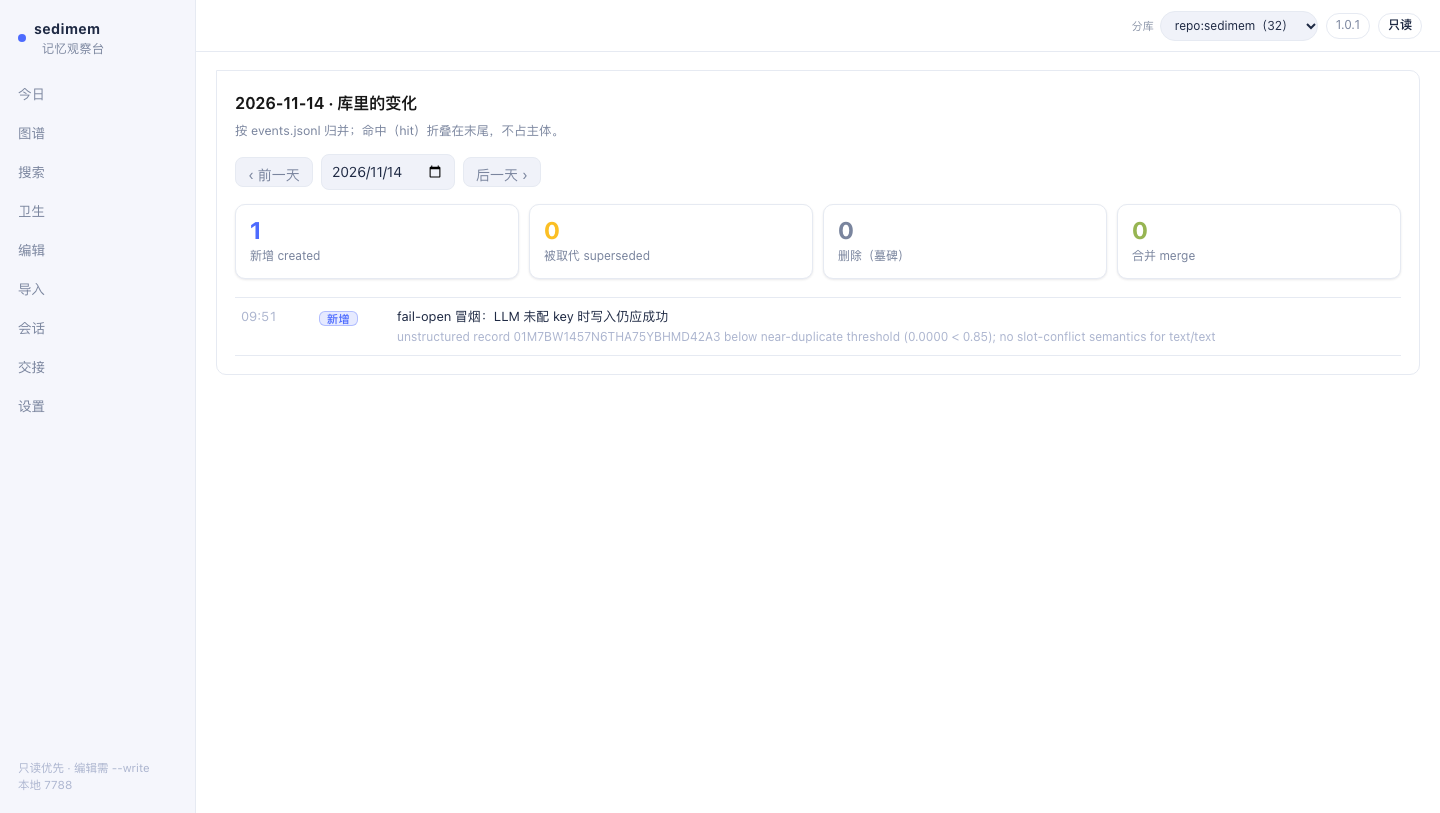
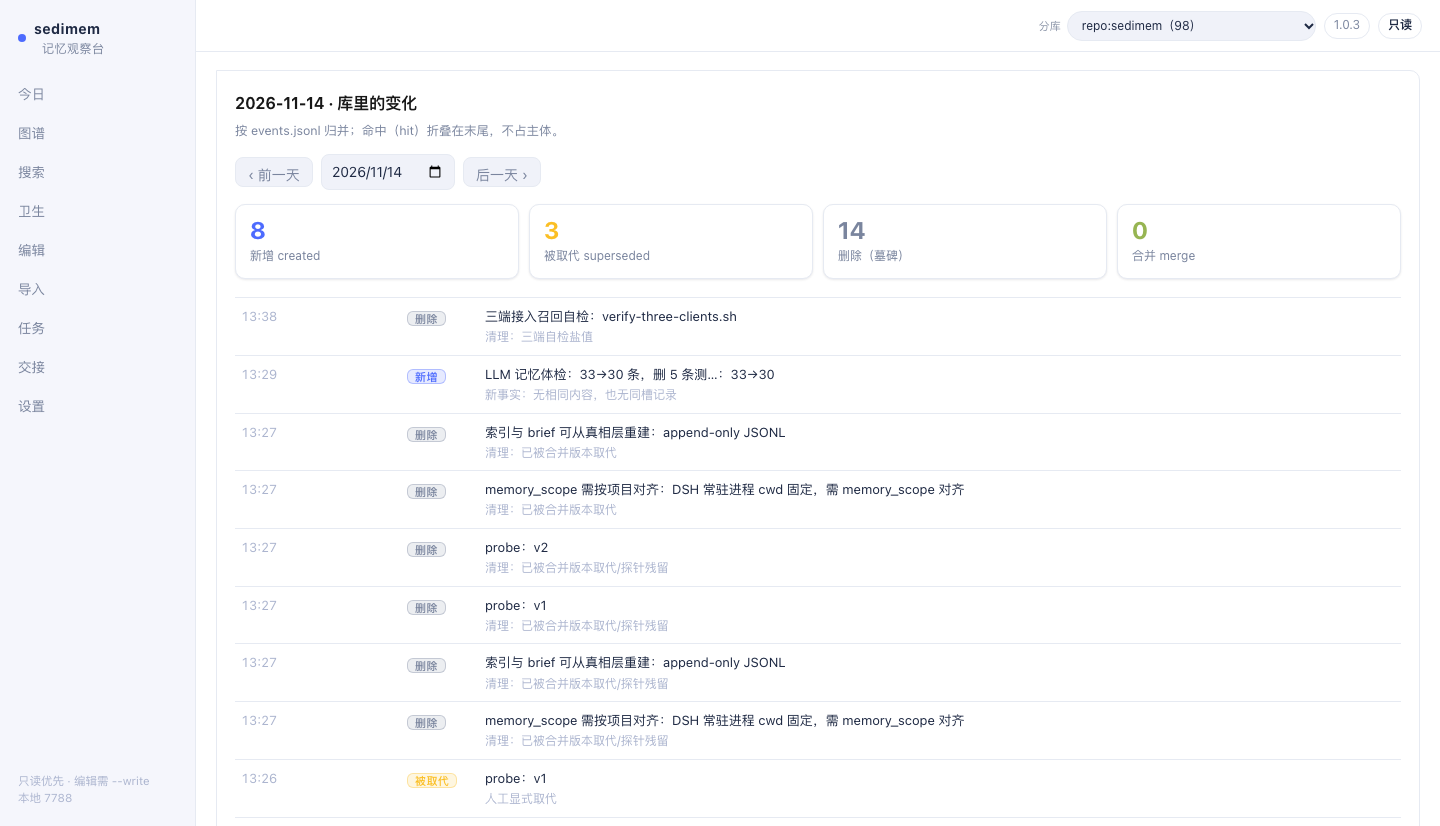
refactor(naming): 会话临时库 → 任务库（对外叫任务，技术标识仍 session:）
- UI：左栏「任务」、页标题「任务记忆」、说明「一个任务可跨多个 agent 接力」、空态文案同步
- 文档：docs/06 §17 改「任务库（session: scope）」并解释为什么按任务而不是会话
- README 中英、项目站中英、v0.6 时间线文案同步；截图重拍
- 文案：小红书/Twitter 改任务库口径（Twitter 4/6 明说 keyed by task, not by chat session）
- 技术标识不变：session: scope / memo session / memory_session_* / from-session 标签

diff --git a/versions/v1.0/ui/session-view.js b/versions/v1.0/ui/session-view.js
@@ -1,16 +1,16 @@
 /**
- * session-view.js —— 会话页（W8）：浏览 session:* 临时分库（只读）。
+ * session-view.js —— 任务页（W8）：浏览 session:* 任务库（只读）。
  *
  * 数据来源（全部复用现有只读接口，不改后端）：
- * - 会话列表：GET api/scopes 里 scope 以 `session:` 开头的分库（records 计数直接用列表返回值）
- * - 会话详情：GET api/records?scope=<session 库>&status=active，按 kind 分组展示
+ * - 任务列表：GET api/scopes 里 scope 以 `session:` 开头的分库（records 计数直接用列表返回值）
+ * - 任务详情：GET api/records?scope=<session 库>&status=active，按 kind 分组展示
  *
  * 安全约定：只读、无写操作；所有接口数据一律 textContent / createElement 写入，
  * 禁用 HTML 字符串拼接与 eval。state 记录的 8 段 checkpoint 用 <pre> 渲染。
  */
 import { el } from './dom.js';
 
-/** checkpoint 的 8 段固定顺序（与会话临时库契约一致）。 */
+/** checkpoint 的 8 段固定顺序（与任务库契约一致）。 */
 const CHECKPOINT_SECTIONS = [
   'intent', 'concepts', 'files', 'errorsAndFixes',
   'pendingJobs', 'currentState', 'nextSteps', 'criticalContext',
@@ -58,7 +58,7 @@ export function formatCheckpoint(record) {
 }
 
 /**
- * 一条会话分库 → 列表行数据（scope + 记录数）。
+ * 一条任务分库 → 列表行数据（scope + 记录数）。
  * @param {string} scope
  * @param {{records?: number}} [stats] —— /api/scopes 的单条分库对象
  * @returns {{scope: string, records: number, label: string}}
@@ -68,15 +68,15 @@ export function buildSessionRow(scope, stats) {
   return { scope: String(scope ?? ''), records, label: `${scope} · ${records} 条记录` };
 }
 
-/** 顶部只读说明（会话库可丢弃，关闭走 CLI，UI 不提供按钮）。 */
+/** 顶部只读说明（任务库可丢弃，关闭走 CLI，UI 不提供按钮）。 */
 function renderNote(container) {
   const note = el('p', 'dim');
-  note.textContent = '会话库是临时记忆（可丢弃）。关闭会话请用 CLI：`memo session close <id>`（UI 只读，不提供按钮）';
+  note.textContent = '一个任务可跨多个 agent 接力；关闭任务用 CLI：`memo session close <id>`（UI 只读，不提供按钮）';
   container.append(note);
 }
 
 /**
- * 挂载会话页（app.js 懒加载后调用；apiGet 由 app.js 注入，自动带当前 scope）。
+ * 挂载任务页（app.js 懒加载后调用；apiGet 由 app.js 注入，自动带当前 scope）。
  * @param {{container: Element, apiGet: Function}} deps
  * @returns {Promise<void>}
  */
@@ -95,7 +95,7 @@ export async function mountSessionView({ container, apiGet }) {
   const sessions = (Array.isArray(data?.scopes) ? data.scopes : [])
     .filter((s) => typeof s?.scope === 'string' && s.scope.startsWith('session:'));
   if (sessions.length === 0) {
-    container.append(el('p', 'dim', '当前没有会话临时库（session:*）。'));
+    container.append(el('p', 'dim', '当前没有任务库（session:*）。'));
     return;
   }
 
@@ -103,7 +103,7 @@ export async function mountSessionView({ container, apiGet }) {
   const layout = el('div', 'session-layout');
   const listBox = el('div', 'card session-list');
   const detail = el('div', 'card session-detail');
-  detail.append(el('p', 'dim', '点击左侧会话查看其中的记录。'));
+  detail.append(el('p', 'dim', '点击左侧任务查看其中的记录。'));
   layout.append(listBox, detail);
   container.append(layout);
 
@@ -117,7 +117,7 @@ export async function mountSessionView({ container, apiGet }) {
   }
 }
 
-/** 拉取一个会话库的 active 记录并按 kind 分组渲染进 detail。 */
+/** 拉取一个任务库的 active 记录并按 kind 分组渲染进 detail。 */
 async function showSession(detail, apiGet, scope) {
   detail.replaceChildren(el('h3', 'h3', scope), el('p', 'dim', '加载中…'));
   let data;
@@ -132,7 +132,7 @@ async function showSession(detail, apiGet, scope) {
   const grouped = groupByKind(data?.records);
   const kinds = Object.keys(grouped);
   if (kinds.length === 0) {
-    detail.append(el('p', 'dim', '该会话库没有 active 记录。'));
+    detail.append(el('p', 'dim', '该任务库没有 active 记录。'));
     return;
   }
   for (const kind of kinds) {

diff --git a/docs/index.html b/docs/index.html
@@ -170,11 +170,11 @@ footer a:hover{text-decoration:underline}
   </figure>
 </section>
 
-<!-- 会话临时库 -->
+<!-- 任务库 -->
 <section>
-  <h2>会话临时库</h2>
+  <h2>任务库</h2>
   <figure>
-    <img src="shots/diagrams/session.png" alt="会话临时库生命周期"
+    <img src="shots/diagrams/session.png" alt="任务库生命周期"
          width="3200" height="1120" loading="lazy"
          style="aspect-ratio:3200/1120">
     <figcaption>session:* 禁写 fact；close 只晋升 decision / gotcha，附六段交接 md。</figcaption>
@@ -214,7 +214,7 @@ footer a:hover{text-decoration:underline}
       <figcaption>卫生页：待裁决簇 + 趋势。</figcaption>
     </figure>
   </div>
-  <p style="margin-top:12px">九页：今日 / 图谱 / 搜索 / 卫生 / 编辑 / 导入 / 会话 / 交接 / 设置。启动：<code class="inline">memo serve --port 7788</code>，加 <code class="inline">--write</code> 才可编辑。</p>
+  <p style="margin-top:12px">九页：今日 / 图谱 / 搜索 / 卫生 / 编辑 / 导入 / 任务 / 交接 / 设置。启动：<code class="inline">memo serve --port 7788</code>，加 <code class="inline">--write</code> 才可编辑。</p>
 </section>
 
 <!-- 三端接入 -->
@@ -253,7 +253,7 @@ claude mcp add --scope user memo -e MEMO_HOME=$HOME/.memo -- \
   <li><b>v0.3</b> 分层视图 + 注入分级</li>
   <li><b>v0.4</b> 语义道 + 入库脱敏</li>
   <li><b>v0.5</b> DSH 插件化 + pages-verify</li>
-  <li><b>v0.6</b> 会话临时库 + 批量导入</li>
+  <li><b>v0.6</b> 任务库 + 批量导入</li>
   <li><b>v1.0</b> 12 模块重构 + 记忆中心</li>
   <li><b>v1.0.1</b> 图谱可用性 + 配色对齐</li>
   <li><b>v1.0.2</b> 思考链 / 重建 / 懒加载修复</li>

diff --git a/docs/en/index.html b/docs/en/index.html
@@ -170,14 +170,14 @@ footer a:hover{text-decoration:underline}
   </figure>
 </section>
 
-<!-- Session store -->
+<!-- Task store -->
 <section>
-  <h2>Session Store</h2>
+  <h2>Task Store</h2>
   <figure>
-    <img src="../shots/diagrams/session.png" alt="Session scratch store lifecycle"
+    <img src="../shots/diagrams/session.png" alt="Task store lifecycle"
          width="3200" height="1120" loading="lazy"
          style="aspect-ratio:3200/1120">
-    <figcaption>session:* forbids facts; close promotes only decision / gotcha, plus a six-section handoff markdown.</figcaption>
+    <figcaption>Keyed by task, not by chat session — multiple agents can hand off one task. <code class="inline">session:*</code> forbids facts; close promotes only decision / gotcha, plus a handoff markdown.</figcaption>
   </figure>
   <div class="chips">
     <span class="chip hl">memo session start</span>
@@ -214,7 +214,7 @@ footer a:hover{text-decoration:underline}
       <figcaption>Hygiene: pending curation clusters + trends.</figcaption>
     </figure>
   </div>
-  <p style="margin-top:12px">Nine pages: Today / Graph / Search / Hygiene / Edit / Import / Session / Handoff / Settings. Start with <code class="inline">memo serve --port 7788</code>; add <code class="inline">--write</code> to enable editing.</p>
+  <p style="margin-top:12px">Nine pages: Today / Graph / Search / Hygiene / Edit / Import / Task / Handoff / Settings. Start with <code class="inline">memo serve --port 7788</code>; add <code class="inline">--write</code> to enable editing.</p>
 </section>
 
 <!-- Three clients -->

diff --git a/versions/v1.0/ui/index.html b/versions/v1.0/ui/index.html
@@ -19,7 +19,7 @@
     <button id="tab-hygiene" data-route="hygiene">卫生</button>
     <button id="tab-edit" data-route="edit">编辑</button>
     <button id="tab-import" data-route="import">导入</button>
-    <button id="tab-session" data-route="session">会话</button>
+    <button id="tab-session" data-route="session">任务</button>
     <button id="tab-handoff" data-route="handoff">交接</button>
     <button id="tab-settings" data-route="settings">设置</button>
   </nav>
@@ -115,10 +115,10 @@
     <div id="settings-container"></div>
   </section>
 
-  <!-- ============ 会话（W8，内容委托 session-view.js，只读） ============ -->
+  <!-- ============ 任务（W8，内容委托 session-view.js，只读） ============ -->
   <section id="session">
-    <h2>会话记忆</h2>
-    <div class="sub">session:* 临时分库的只读浏览；关闭会话走 CLI，本页不提供写操作。</div>
+    <h2>任务记忆</h2>
+    <div class="sub">任务库（session:* 分库）的只读浏览：一个任务可跨多个 agent 接力，关闭走 CLI，本页不提供写操作。</div>
     <div id="session-container"></div>
   </section>
 

diff --git a/versions/v1.0/ui/handoff-view.js b/versions/v1.0/ui/handoff-view.js
@@ -30,7 +30,7 @@ function baseName(path) {
 }
 
 /**
- * 一条指针记录 → 列表行数据（时间 / 会话 id / 路径）。
+ * 一条指针记录 → 列表行数据（时间 / 任务 id / 路径）。
  * @param {object} record
  * @returns {{ts: string, sessionId: string, path: string, label: string}}
  */
@@ -38,7 +38,7 @@ export function buildHandoffRow(record) {
   const ts = String(record?.createdAt ?? record?.ts ?? '');
   const sessionId = String(record?.source?.session ?? record?.session ?? '');
   const path = pickHandoffPath(record);
-  return { ts, sessionId, path, label: `${ts || '–'} · ${sessionId || '未知会话'} · ${path}` };
+  return { ts, sessionId, path, label: `${ts || '–'} · ${sessionId || '未知任务'} · ${path}` };
 }
 
 /** 顶部只读说明。 */
@@ -110,7 +110,7 @@ async function showHandoff(detail, apiGet, row) {
   }
   if (row.sessionId) {
     const meta = el('div', 'm', '');
-    meta.textContent = `会话：${row.sessionId}`;
+    meta.textContent = `任务：${row.sessionId}`;
     detail.append(meta);
   }
   const pre = el('pre', 'handoff-content');

diff --git a/versions/v1.0/tests/unit/session-view.test.js b/versions/v1.0/tests/unit/session-view.test.js
@@ -28,7 +28,7 @@ test('groupByKind：非数组 / 缺 kind 防御式处理', () => {
 });
 
 const CHECKPOINT = {
-  intent: '做会话页',
+  intent: '做任务页',
   concepts: ['session', 'handoff'],
   files: ['ui/session-view.js'],
   errorsAndFixes: [],
@@ -48,7 +48,7 @@ test('formatCheckpoint：8 段按固定顺序渲染成纯文本', () => {
     assert.ok(i > last, `段 ${head} 应存在且有序`);
     last = i;
   }
-  assert.ok(text.includes('做会话页'));
+  assert.ok(text.includes('做任务页'));
   assert.ok(text.includes('session\nhandoff'), '数组段逐行展示');
   // 空数组段只留标题，不出现占位内容
   assert.ok(!text.includes('[]'));

diff --git a/versions/v1.0/ui/app.js b/versions/v1.0/ui/app.js
@@ -479,7 +479,7 @@ async function loadImport() {
   importMounted = { scope };
 }
 
-/* W8：会话 / 交接页统一懒加载（只读，无需记忆挂载状态） */
+/* W8：任务 / 交接页统一懒加载（只读，无需记忆挂载状态） */
 /* ---------------- 路由 ---------------- */
 
 const ROUTES = ['today', 'graph', 'search', 'hygiene', 'edit', 'import', 'settings', 'session', 'handoff'];

diff --git a/versions/v1.0/tests/unit/handoff-view.test.js b/versions/v1.0/tests/unit/handoff-view.test.js
@@ -18,7 +18,7 @@ test('pickHandoffPath：predicate=handoff 时取 value，否则空串', () => {
   assert.equal(pickHandoffPath('string'), '');
 });
 
-test('buildHandoffRow：时间 / 会话 id / 路径三字段', () => {
+test('buildHandoffRow：时间 / 任务 id / 路径三字段', () => {
   const row = buildHandoffRow({
     createdAt: '2026-11-14T04:00:00Z',
     source: { session: 'session:abc' },

diff --git a/versions/v1.0/ui/lazy.js b/versions/v1.0/ui/lazy.js
@@ -1,4 +1,4 @@
-// ui/lazy.js —— 「会话 / 交接 / 设置」三页的懒加载器
+// ui/lazy.js —— 「任务 / 交接 / 设置」三页的懒加载器
 //
 // 单独成文件是为了让 app.js 守在 600 行 Q9 硬线内（拆模块而不是放宽阈值）。
 // 每页导出的是 mountXxxView（不是统一的 mount），设置页的参数名是 api 而非 apiGet ——

diff --git a/docs/marketing/posts/xiaohongshu-2026-11-14.md b/docs/marketing/posts/xiaohongshu-2026-11-14.md
@@ -17,9 +17,9 @@
 
 AI 会忘记你，它不会。🧠
 
-每次重开 AI 编码助手都得重新教：项目在哪、构建怎么跑、上次那个坑为什么不能踩。CLAUDE.md 越写越长，最后全被挤到注意力末尾。
+每次重开 AI 编码助手都得重新教：项目在哪、构建怎么跑、上次那个坑为什么不能踩。CLAUDE.md 越写越长，最后全被挤到末尾。
 
-所以我做了个本地记忆库 **sedimem**（沉积岩那个沉积）。这周补上最后两块：**LLM 总结层**和**会话临时库**。
+所以我做了个本地记忆库 **sedimem**。这周补上最后两块：**LLM 总结层**和**任务库**。
 
 ---
 
@@ -29,32 +29,32 @@ AI 会忘记你，它不会。🧠
 以前标题是 `subject/predicate` 拼的（"strata · index" 这种），现在模型写人话。关了 LLM 一切照常，只少层摘要。
 
 🗂 **记忆中心九页（浏览器里看，只读）**
-今日变化 / 3D 图谱 / 搜索 / 卫生 / 编辑 / 导入 / 会话 / 交接 / 设置。图谱点节点看原文，卫生页盯重复和过期。
+今日变化 / 3D 图谱 / 搜索 / 卫生 / 编辑 / 导入 / 任务 / 交接 / 设置。图谱点节点看原文，卫生页盯重复与过期。
 
 🧹 **记忆体检：33 条揪出 5 条垃圾**
-LLM 标出测试残留和同义重复，逐条核对后才删/合并 → 33 变 30，冗余率归零。
+LLM 标出测试残留和同义重复，我逐条核对后才删/合并 → 33 变 30。
 
-🧠 **会话临时库：一次任务用的一次性记忆**
-过程性内容（下一步做什么、刚踩了什么坑）不该进长期库。开工 start → 中途 checkpoint（固定 8 段，也能接 DSH 压缩摘要）→ 收工 close。**只有 decision 和 gotcha 晋升回主库**（带标签可溯源），其余丢弃并自动写交接文档。过程留痕、主库不脏。
+🧠 **任务库：按「任务」分，不按「会话」分**
+过程性内容（下一步做什么、刚踩了什么坑）不该进长期库，但也不该按会话切——多 agent 联合开发时一个任务会被好几个 agent 接力，按会话切就把上下文切碎了。所以按任务开库：start → checkpoint（固定 8 段，也能接 DSH 压缩摘要）→ close。**只有 decision 和 gotcha 晋升回主库**（带标签可溯源），其余丢弃 + 自动写交接文档。
 
 🔌 **一个 MCP server，三端共用**
-DSH / Codex CLI / Claude Code 读同一份 JSONL，换工具不用重新喂。
+DSH / Codex CLI / Claude Code 读同一份 JSONL，换工具不用重喂。
 
 ---
 
 **和常见方案不一样的地方**
 
 · 真相层是 append-only JSONL：只追加、永不原地改，任意时点可回溯
-· 索引 / 图谱 / 摘要都是派生层：删光能一键重建
-· 零运行时依赖，数据只在 `~/.memo/`，不联网也能用
+· 索引 / 图谱 / 摘要都是派生层，删光能重建
+· 零运行时依赖，数据只在 `~/.memo/`，可离线
 
 ---
 
-**想请大家帮我用一下** 🙏
+**求大家帮我用一下** 🙏
 
-一个人自测盲区太多。你也在用 DSH / Codex / Claude Code 的话，装上跑几天，告诉我哪里看不懂、哪个操作反直觉、遇到什么 bug。提 issue 就行，我基本当天修——**这周两个 bug 都是真实使用撞出来的**，自己测根本发现不了。
+一个人自测盲区太多。你也在用 DSH / Codex / Claude Code 的话，装上跑几天，告诉我哪里看不懂、哪个操作反直觉、遇到什么 bug。提 issue 就行，我基本当天修——**这周两个 bug 都是真实用出来的**，自己测根本发现不了。
 
-GitHub 搜 **sedimem**（Old-Friends-Gathering/sedimem），MIT 🌱
+GitHub 搜 **sedimem**，MIT 🌱
 
 #AI工具 #本地优先 #开源项目 #效率工具 #程序员 #ClaudeCode #Codex #MCP #知识管理
 

diff --git a/README.en.md b/README.en.md
@@ -83,24 +83,24 @@ $NODE $V/src/cli/memo.js serve --port 7788   # Memory Hub at http://127.0.0.1:77
 | Brief | Current-scope overview | `memo brief` |
 | Hygiene | Dedupe scan, conflict adjudication, supersede, tombstone delete | `memo dedupe` / `curate` / `supersede` / `forget` |
 | LLM derived | Bypass generation of title/summary/tags, off by default | `memo derive` / `llm` |
-| Session scratch | Exploratory work goes to a scratch store first; close promotes via whitelist | `memo session` |
+| Task store | Per-task scratch memory; close promotes via whitelist | `memo session` |
 | Memory Hub | Nine-page Web UI, read-only by default | `memo serve --port 7788` |
 | Doctor | Environment / store / index health checks | `memo doctor` / `stats` |
 | Migrate & rebuild | Version-dir migration, full index rebuild | `memo migrate` / `reindex` / `compact` |
 
 ## Memory Hub
 
-`memo serve --port 7788`, nine pages: Today / Graph / Search / Hygiene / Edit / Import / Session / Handoffs / Settings.
+`memo serve --port 7788`, nine pages: Today / Graph / Search / Hygiene / Edit / Import / Task / Handoffs / Settings.
 
 | ![Today: stream of the day's changes](docs/shots/ui-today.png) | ![Graph: force-directed + kind filter](docs/shots/ui-graph.png) |
 |---|---|
-| ![Hygiene: pending clusters + 30-day trend](docs/shots/ui-hygiene.png) | ![Session: scratch-store status](docs/shots/ui-session.png) |
+| ![Hygiene: pending clusters + 30-day trend](docs/shots/ui-hygiene.png) | ![Task: task-store status](docs/shots/ui-session.png) |
 
 | Page | Purpose | Page | Purpose |
 |---|---|---|---|
 | Today | See today's changes | Edit | Change with `--write` mode on |
 | Graph | Force-directed overview | Import | Bulk structured input |
-| Search | Search with basis | Session | Scratch-store status |
+| Search | Search with basis | Task | Task-store status |
 | Hygiene | Pending-cluster cleanup | Handoffs | Six-section handoff docs |
 | | | Settings | Store scope & theme |
 
@@ -121,11 +121,11 @@ Measured cost (GLM-5.3-Flash): full rebuild of 33 records ≈1m50s, **<¥0.02**;
 > [!NOTE]
 > With LLM on, title/summary/tag generation requests go to your configured provider; raw memory text stays local, and the truth layer never participates in requests.
 
-## Session scratch store
+## Task store (scope `session:` )
 
-Exploratory work goes first into a `session:*` scratch store (fact writes forbidden). On close, only decision/gotcha entries are promoted to the main store (tagged `from-session:<id>`); the rest is discarded, and a six-section handoff doc is written to `docs/handoffs/<id>.md`.
+A task's working state lives in a `session:*` store (fact writes forbidden). We key it by **task**, not by chat session: with multiple agents collaborating, one task spans several sessions and agents, so the task is the unit that gets handed off. On close, only decision/gotcha entries are promoted to the main store (tagged `from-session:<id>`); the rest is discarded, and a six-section handoff doc is written to `docs/handoffs/<id>.md`.
 
-![Session scratch store: start → checkpoint → close](docs/shots/diagrams/session.png)
+![Task store: start → checkpoint → close](docs/shots/diagrams/session.png)
 
 ```bash
 memo session start --title "Debug lock contention"

diff --git a/README.md b/README.md
@@ -78,24 +78,24 @@ $NODE $V/src/cli/memo.js serve --port 7788   # 记忆中心 http://127.0.0.1:778
 | 简报 | 当前 scope 概览 | `memo brief` |
 | 治理 | 去重扫描、冲突裁决、新旧取代、墓碑删除 | `memo dedupe` / `curate` / `supersede` / `forget` |
 | LLM 派生 | 标题/摘要/标签旁路生成，默认关 | `memo derive` / `llm` |
-| 会话临时库 | 探索先进临时库，close 白名单晋升 | `memo session` |
+| 任务库 | 任务级临时记忆，close 白名单晋升 | `memo session` |
 | 记忆中心 | 九页 Web UI，默认只读 | `memo serve --port 7788` |
 | 体检 | 环境/分库/索引健康检查 | `memo doctor` / `stats` |
 | 迁移重建 | 版本目录迁移、索引删光重建 | `memo migrate` / `reindex` / `compact` |
 
 ## 记忆中心
 
-`memo serve --port 7788`，九页：今日 / 图谱 / 搜索 / 卫生 / 编辑 / 导入 / 会话 / 交接 / 设置。
+`memo serve --port 7788`，九页：今日 / 图谱 / 搜索 / 卫生 / 编辑 / 导入 / 任务 / 交接 / 设置。
 
 | ![今日：当天变化流](docs/shots/ui-today.png) | ![图谱：力导向 + kind 筛选](docs/shots/ui-graph.png) |
 |---|---|
-| ![卫生：待裁决簇 + 30 天趋势](docs/shots/ui-hygiene.png) | ![会话：临时库状态](docs/shots/ui-session.png) |
+| ![卫生：待裁决簇 + 30 天趋势](docs/shots/ui-hygiene.png) | ![任务：任务库状态](docs/shots/ui-session.png) |
 
 | 页 | 干什么 | 页 | 干什么 |
 |---|---|---|---|
 | 今日 | 当天变化流 | 编辑 | `--write` 才可改 |
 | 图谱 | 力导向全貌 + kind 筛选 | 导入 | 批量结构化 |
-| 搜索 | 带依据（basis）检索 | 会话 | 临时库状态 |
+| 搜索 | 带依据（basis）检索 | 任务 | 任务库状态 |
 | 卫生 | 待裁决簇 + 30 天趋势 | 交接 | 六段交接文档 |
 | 设置 | 分库 / 配色 / 策略只读 | | |
 
@@ -116,11 +116,11 @@ memo llm status && memo llm test && memo derive --rebuild
 > [!NOTE]
 > 开 LLM 后，标题/摘要/标签的生成请求会发往你配置的 provider；原始记忆文本仍只在本机，真相层不参与请求。
 
-## 会话临时库
+## 任务库（`session:` scope）
 
 探索性工作先进 `session:*` 临时库（禁写 fact）；close 只把 decision/gotcha 晋升主库（带 `from-session:<id>` 标签），其余随库废弃，并生成六段交接文档 `docs/handoffs/<id>.md`。
 
-![会话临时库：start → checkpoint → close](docs/shots/diagrams/session.png)
+![任务库：start → checkpoint → close](docs/shots/diagrams/session.png)
 
 ```bash
 memo session start --title "调试锁竞争"
@@ -178,7 +178,7 @@ claude mcp add --scope user memo -e MEMO_HOME=$HOME/.memo -- \
 | `write` / `search` / `brief` / `get` | 写入 / 检索 / 简报 / 取单条 |
 | `supersede` / `forget` | 新值取代旧记录 / 删除（默认写墓碑） |
 | `curate` / `dedupe` / `compact` | 裁决去重簇 / 扫描候选 / 压缩 |
-| `session` / `derive` / `llm` | 会话临时库 / 派生重建 / LLM 配置 |
+| `session` / `derive` / `llm` | 任务库 / 派生重建 / LLM 配置 |
 | `serve` / `doctor` / `stats` | 记忆中心 / 体检 / 统计 |
 | `reindex` / `migrate` / `view` | 重建索引 / 版本迁移 / 视图 |
 
